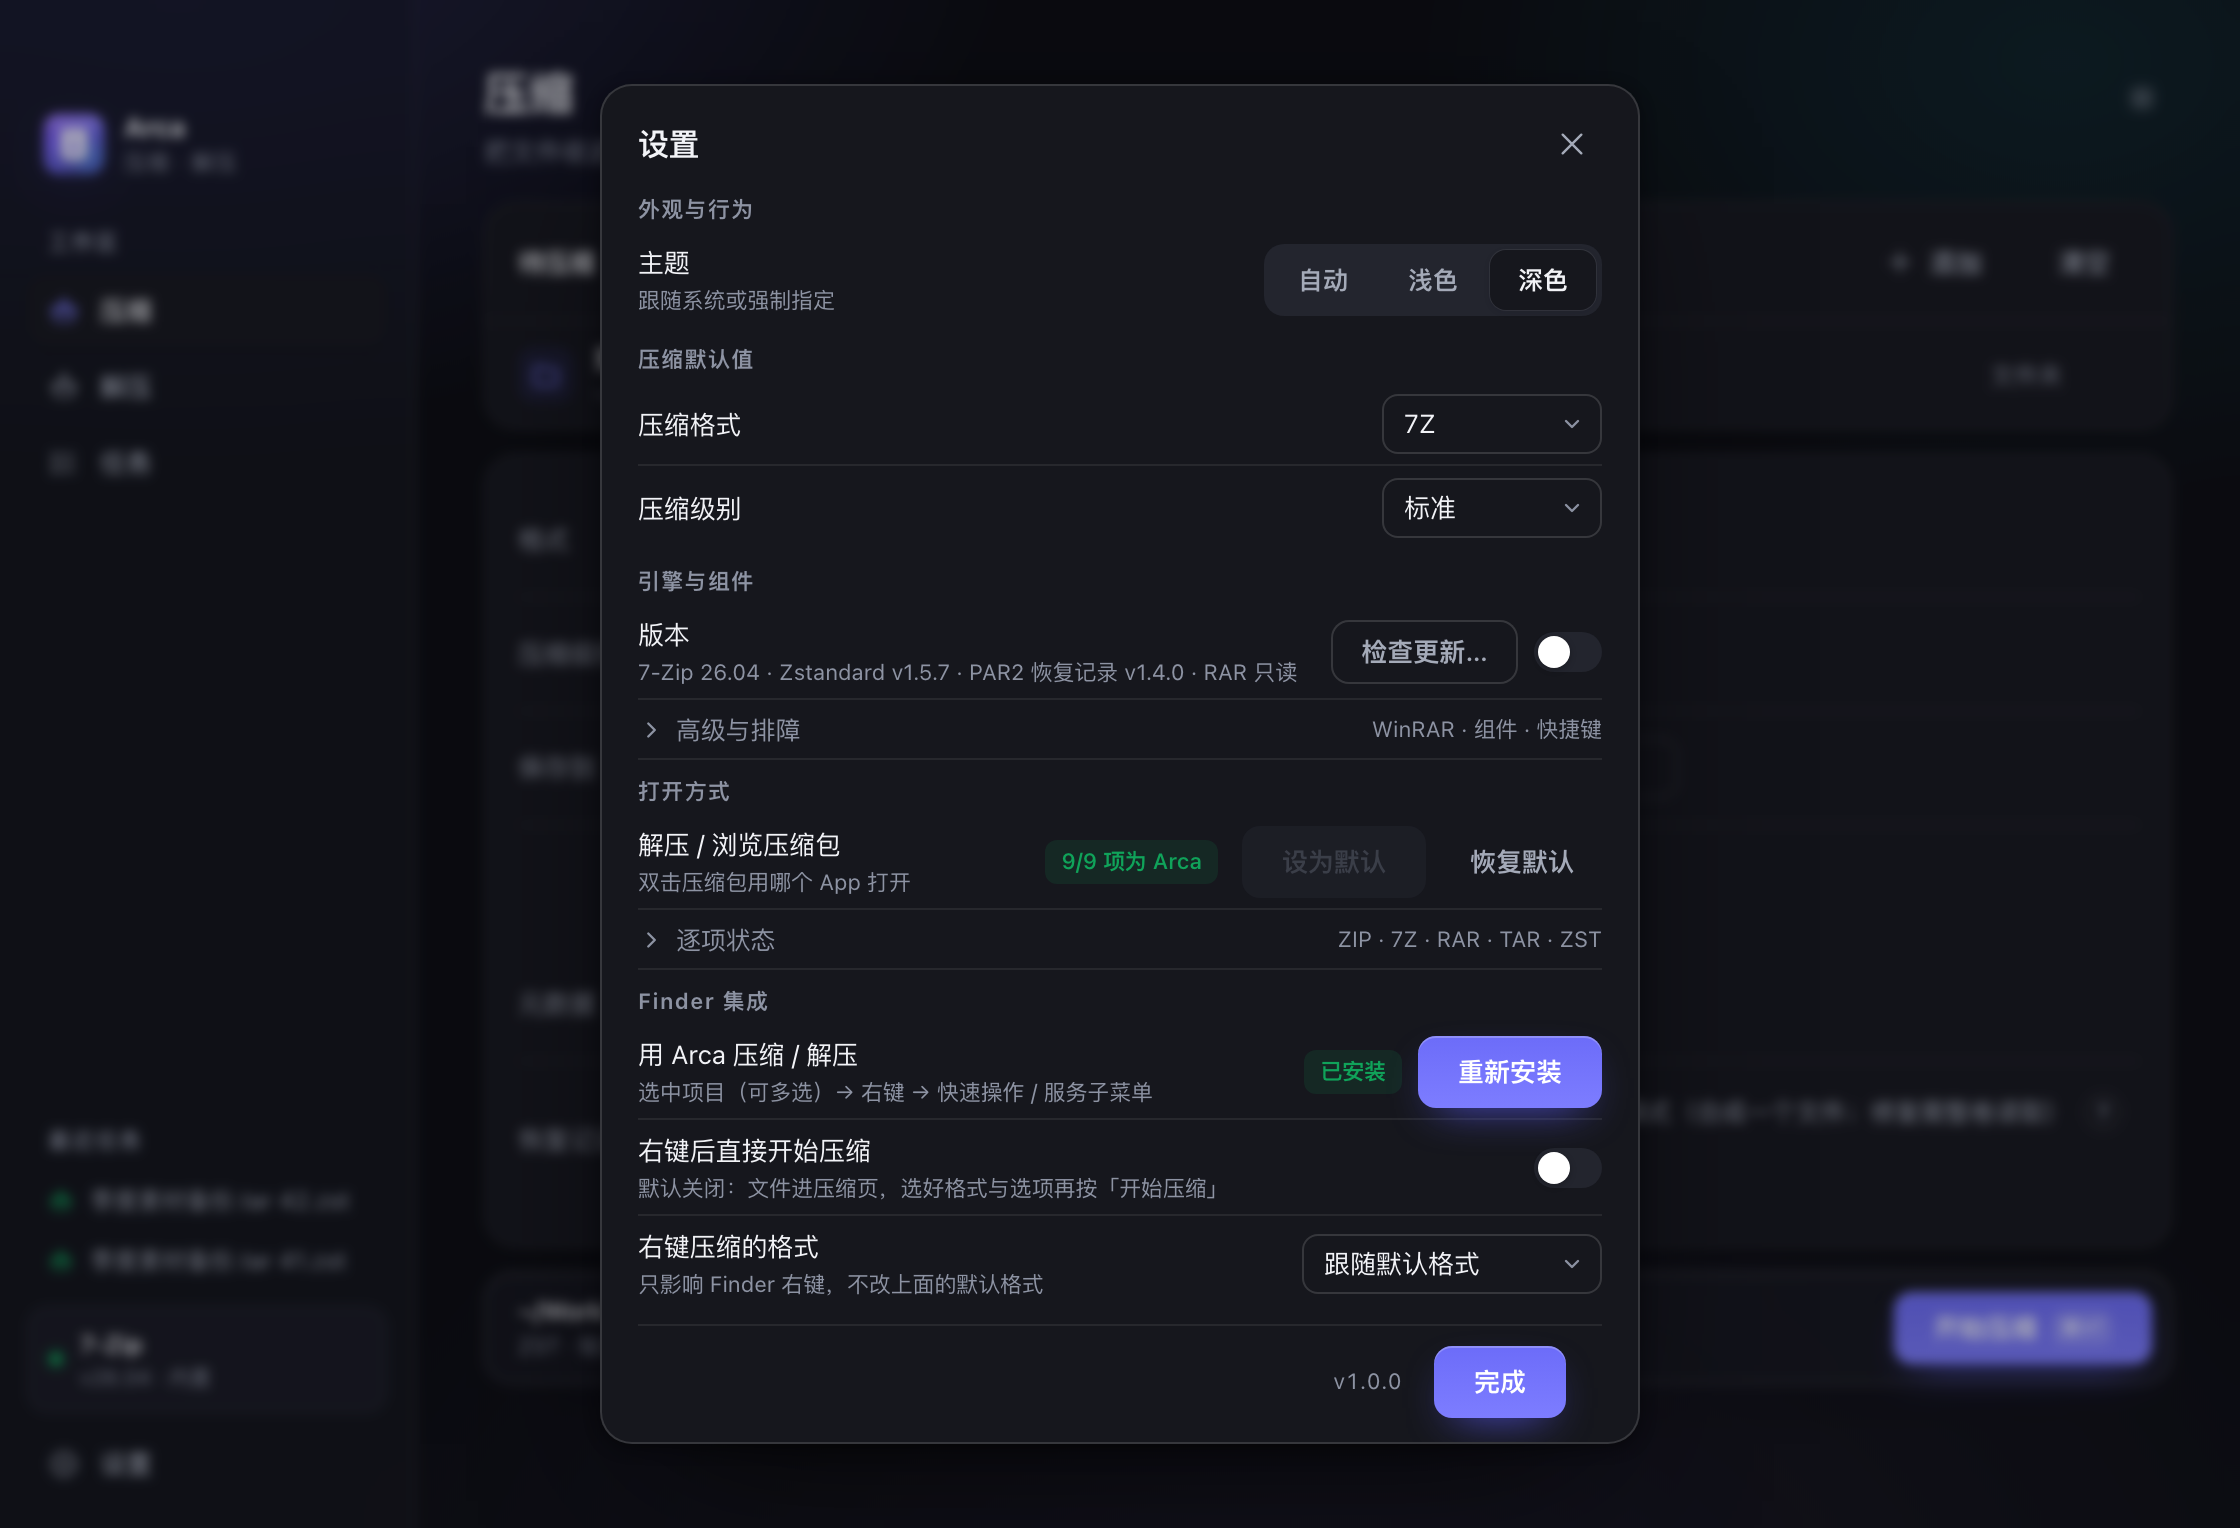
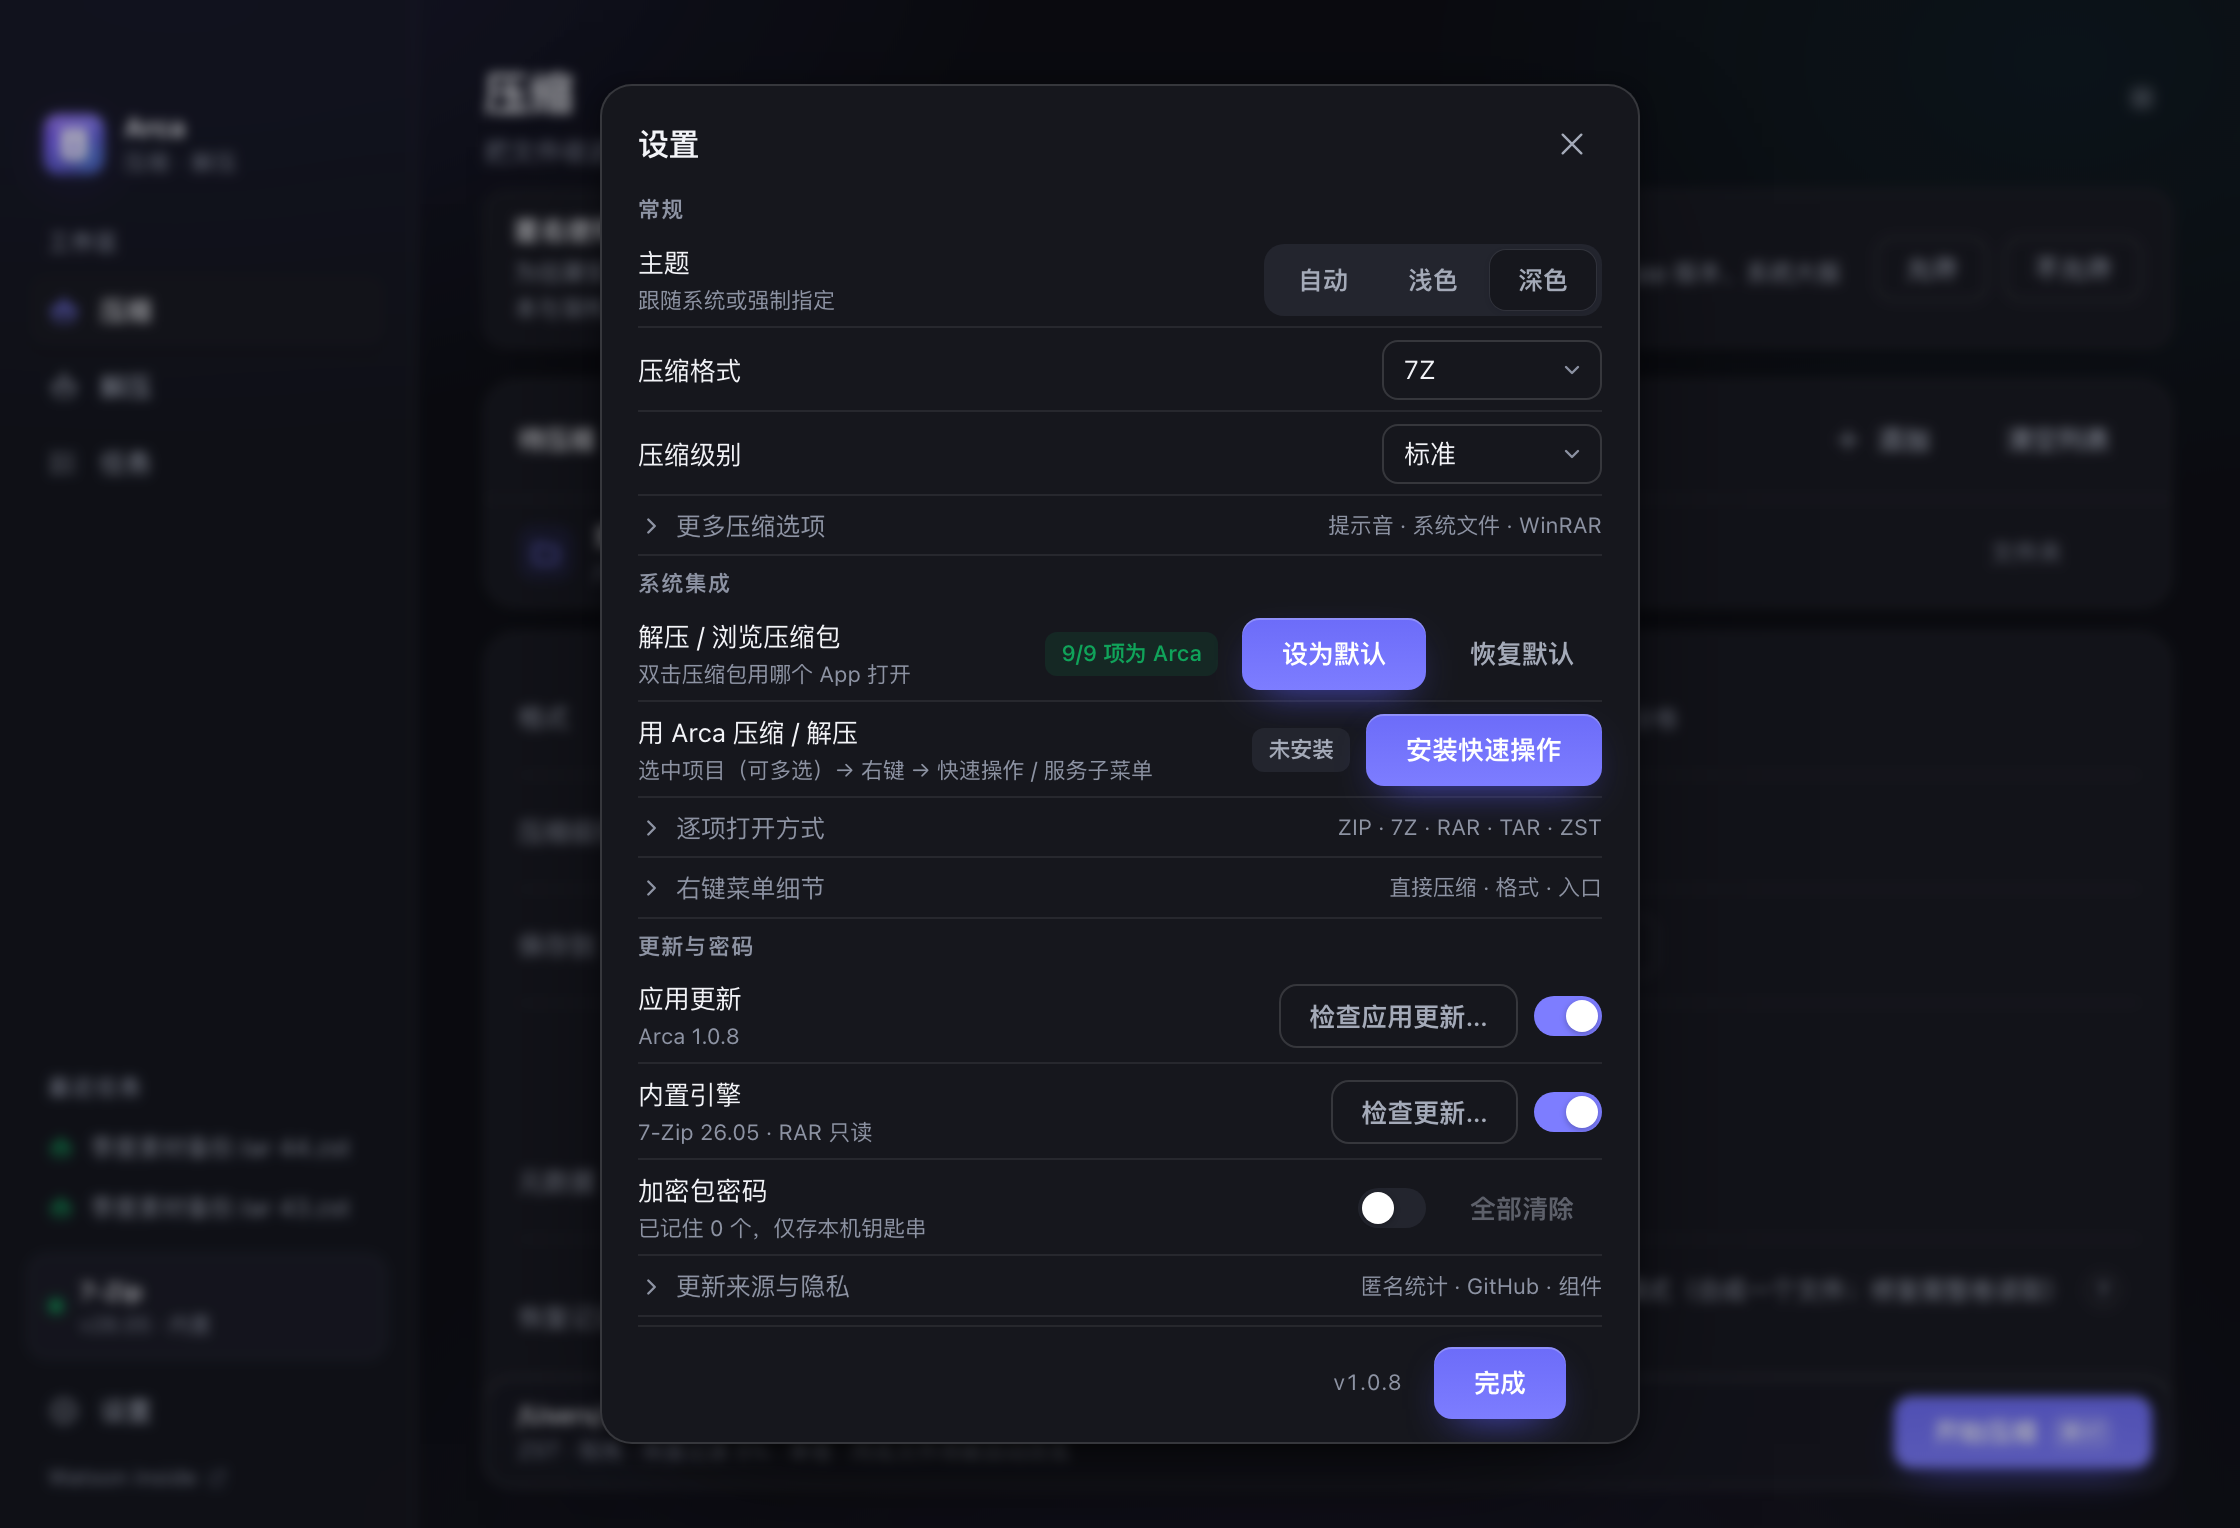
docs: UI week delivery -- fresh screenshots, DESIGN.md sync, handoff notes
- All screenshots regenerated from current code (make shots + update
  suite); orphaned shots with no generator left (00-drag, 15-18) removed
  and the ENGINEERING-NOTES list updated to name each shot's producer.
- DESIGN.md gains the rules this week established: segmented controls
  are radiogroups (radio + aria-checked + roving tabindex, pill follows
  the checked button), focusable list rows with arrow/Delete navigation,
  error toasts carry role=alert, finished tasks render no active bar.
- docs/UI-WEEK-2026-10.md: change summary by category, verification
  records (20/20 gate + 40 end-to-end checks), known limits, review
  guide. Five-user testing deferred by product decision.

make test 20/20.

diff --git a/docs/UI-WEEK-2026-10.md b/docs/UI-WEEK-2026-10.md
@@ -1,0 +1,105 @@
+# UI／UX 一周改造 · 交付说明（2026-10-24）
+
+> 对应任务书 `arca-ui-ux-one-week-brief.md`（2026-10-24 版）。执行范围：
+> Day 1–5 全部 + Day 7 回归；**Day 6 五人任务测试按产品决定推迟**。
+> 全程未 `git push`、未建 tag、未发布；所有提交仅在本地。
+
+## 提交列表（本地，未推送）
+
+| SHA | 内容 |
+| --- | --- |
+| `8da8811` | feat: anonymous usage statistics with settings opt-out（前一轮统计功能，本轮开始前固定现场） |
+| `9d29620` | release: v1.0.8（版本号与 README，前一轮） |
+| `eb3a171` | Day 1 隐私 P0 |
+| `337a3f3` | Day 2 任务中心 |
+| `4f80a66` | Day 3+4 主流程与空态视觉 |
+| `1e0c1f8` | Day 5 可达性 |
+| （本次提交） | Day 7 截图重生成、DESIGN.md 同步、本交付文档 |
+
+## 变更摘要（按任务书 §16.1 分类）
+
+### 隐私与信任（P0）
+- README「唯一联网是查更新」的矛盾声明修正；全部「不含任何个人数据」绝对化
+  表述替换为准确字段清单（README／设置／统计接口文档三处一致）。
+- 首次启动出现等重「允许／不允许」横幅；**未做选择前零请求**（`statsPrompted`
+  守卫），拒绝即永久零请求；允许后服务端立即补发安装上报。
+- 设置内「查看发送内容」展开器：字段示例 + 「不会发送」清单。
+
+### 任务中心
+- 失败任务可聚焦「重试」按钮；服务端内存保留最近 60 个任务原始请求
+  （密码不出服务端），`/api/jobs/retry` 重发。
+- **修复真实缺陷**：失败解压残留空目标目录，把重试堵死在「已存在同名文件夹」；
+  现在失败与取消同样回滚本次新建目录（zstd／zipfix／引擎三条路径统一）。
+- 结束态任务收起贯穿整行的进度条；面板秩序：进行中/等待 → 失败 → 完成沉底。
+- 任务卡图标按钮全部补 aria-label（取消按钮写明后果）。
+- 「清除历史」二次确认（写明条数与「文件不受影响」）；两种清理均以 toast
+  披露实际范围。任务空态增加次行动「选择压缩包…」。
+
+### 压缩／解压主流程
+- 待压缩统计细化（项数 · 文件数 · 文件夹数 · 大小，未知写「待扫描」）。
+- 重复拖入不再静默（明确 toast）；超长文件名中间省略、保留扩展名。
+- 移除按钮 aria-label 写明「不删除磁盘文件」；「清空」更名「清空列表」。
+- 密码错误后焦点保留并全选；验证成功焦点转向「开始解压」；眼睛按钮的
+  aria-label／title 随显示状态切换（压缩、解压两处）。
+- 重名三选项各配一句可预测后果的实时提示。
+
+### 空态、文案与视觉
+- 压缩空态补「选择文件夹…」（原生目录面板）；解压空态改「先查看内容，
+  再决定解压到哪里」。
+- 格式说明改为结果导向（体积最小适合长期保存／兼容性最好适合发给别人／
+  大文件高速／RAR 需配置）。
+- 背景装饰光斑深浅两套降噪约一半；§11 错误文案表核查确认十场景全覆盖。
+
+### 可达性
+- 分段控件（格式、主题）由假 tablist 改 **radiogroup／radio + aria-checked +
+  roving tabindex**；方向键／Home／End 不变；menu_test 断言同步。
+- 待压缩文件行、归档条目行可聚焦，↑↓ 移动；Delete 移除文件行且焦点留在列表。
+- 错误 toast 叠加 `role="alert"`。
+- **修复真实缺陷**：完成快于轮询间隔（1.6 s）的任务、或会话中经 Finder 服务
+  发起的任务，成败提示整个丢失；首轮轮询只登记，此后「新出现即终态」也播报。
+- 940×640 实测：页面与全部子元素无横向溢出，主按钮与输出摘要完整可见。
+
+## 验证记录
+
+- `make test` 全量门禁 **20/20**（含 menu 82/82，其中 pill 回归断言锁住
+  radiogroup 转换、6 处断言随语义更新）。
+- 分日端到端验证（headless 实例 + Chrome CDP 驱动真实前端，脚本在
+  `build/verify_*.py`，可重复执行）：
+  - 隐私：10/10（含视觉模型对横幅截图的确认）
+  - 任务中心：11/11
+  - Day 3/4：10/10
+  - Day 5：9/9
+- 截图全部从当前代码重新生成（`make shots` + 更新套件）；目录中不再保留
+  没有生成者的历史截图（删除 00-drag、15–18，文档清单已同步）。
+- 基线说明：任务书 §2.2 提到的 selftest 分卷夹具 `._*` 污染在本仓库当前
+  状态**无法复现**（夹具目录零 `._` 文件，selftest 38/38 通过）；防再污染
+  加固未做，见「已知限制」。
+
+## 已知限制与未做事项
+
+1. **历史清理的「撤销」未实现**：需要后端暂存被清历史并提供恢复接口；本轮
+   以「二次确认 + toast 披露范围」替代。产品决策点。
+2. **压缩任务失败重试依赖内存请求记录**：应用重启后失效（错误提示已如实
+   说明「应用重启后仅保留本次会话」）。持久化需考虑密码落盘风险，未做。
+3. **五人任务测试（Day 6）按产品决定推迟**，任务书 §4.1 的完成率指标未测。
+4. **分卷夹具防 `._*` 污染的加固未做**（当前无法复现；若外置卷环境再次出现，
+   按 §2.2.3 让夹具重建时清理 `._*` 并加防护测试）。
+5. 验证脚本依赖 `/Applications/Google Chrome.app`（与 menu_test 相同）。
+
+## 复核指引（给下一位）
+
+```bash
+make brief                      # 项目自述 + 快速门禁
+make test                       # 全量 20 套件，应全绿
+build/venv/bin/python -S -E build/verify_notice.py      # 隐私 10 项
+build/venv/bin/python -S -E build/verify_taskcenter.py  # 任务中心 11 项
+build/venv/bin/python -S -E build/verify_day34.py       # 主流程 10 项
+build/venv/bin/python -S -E build/verify_day5.py        # 可达性 9 项
+```
+
+重点人工复核（自动化覆盖不到的）：深浅色下首次启动横幅的观感、任务页
+「完成沉底」的动线直觉、940×640 下设置面板一屏。截图基线在
+`assets/shots/`（01–14）。
+
+本轮 UI 改动**未随任何发布打包**；发布 1.0.9 时需按标准流程
+（bump → bundle → package → publish → 用户确认后 Release）。

diff --git a/docs/DESIGN.md b/docs/DESIGN.md
@@ -142,7 +142,14 @@
   后果、单位），随参数更新；**解释性文字放可聚焦的展开器**（`?` + `aria-expanded` +
   `aria-controls`），不用 hover 换文——hover 对键盘/触控不可达，还会让整块回流。
 - **toast 只用于结果与异常**（完成、失败、覆盖），不用于解释"这个选项是什么"：
-  它 3 秒后消失、离操作点远、无法回看。
+  它 3 秒后消失、离操作点远、无法回看。错误 toast 额外带 `role="alert"`
+  （容器是 polite，错误必须插队立即播报）。
+- **分段控件的语义是 radiogroup**，不是 tablist——它从不切换面板。按钮
+  `role="radio"` + `aria-checked`，roving tabindex（只有选中项在 Tab 序）；
+  方向键 / Home / End 的键盘行为不变。pill 定位跟随 `aria-checked` 选中项。
+- **列表行可聚焦、可键盘操作**：待压缩文件行与归档条目行 `tabindex="0"`，
+  ↑↓ 移动焦点；文件列表 Delete 移除行（移除的只是列表项，焦点留在列表内）。
+  危险键（Delete）的读屏描述必须写明不删除磁盘文件。
 - 行内状态行加 `role="status" aria-live="polite"`，开关用 `aria-describedby` 指向它。
 - **缺失的能力要挂在它自己的选项上**，不要挂在别的选项的说明后面。禁用控件既不能
   hover 也不能聚焦，`title` 事实上不可达；而把入口放在"当前所选格式"的说明之后，它会
@@ -155,6 +162,8 @@
 - **重建不等于重播**：数据没变就不要重建 DOM。分段控件的 pill 是独立元素，
   重建后它会从 `translateX(0)` 动画到目标位置（看起来像"自己滑了一下"），
   同时销毁焦点、让方向键连按失效。幂等重建 + 重建后 `instant` 落位（`.no-anim`）。
+- **结束态不渲染活动进度条**：完成的任务不再保留满宽绿条贯穿卡片，状态由
+  文字与图标承载；进行中的不确定进度必须明确"正在处理"，不伪造百分比。
 
 ## 8. 反模式（会被 audit 拦下）
 

diff --git a/docs/ENGINEERING-NOTES.md b/docs/ENGINEERING-NOTES.md
@@ -114,8 +114,8 @@
 
 界面截图见 `assets/shots/`（`01-compress` `02-extract` `03-queue` `04-dark` `05-settings`  
 `06-menu-light` `07-menu-dark` `08-update` `09-update-done` `10-zst` `11-par2-menu`  
-`12-components` `13-finder` `14-default` `15-par2-hint` `16-par2-note` `17-rar-entry`  
-`18-rar-jump`）。
+`12-components` `13-finder` `14-default`；01-07、10-14 由 `make shots` 生成，  
+08-09 由更新套件生成——目录里不再保留没有生成者的历史截图）。
 
 ### Finder 右键与默认打开方式
 
